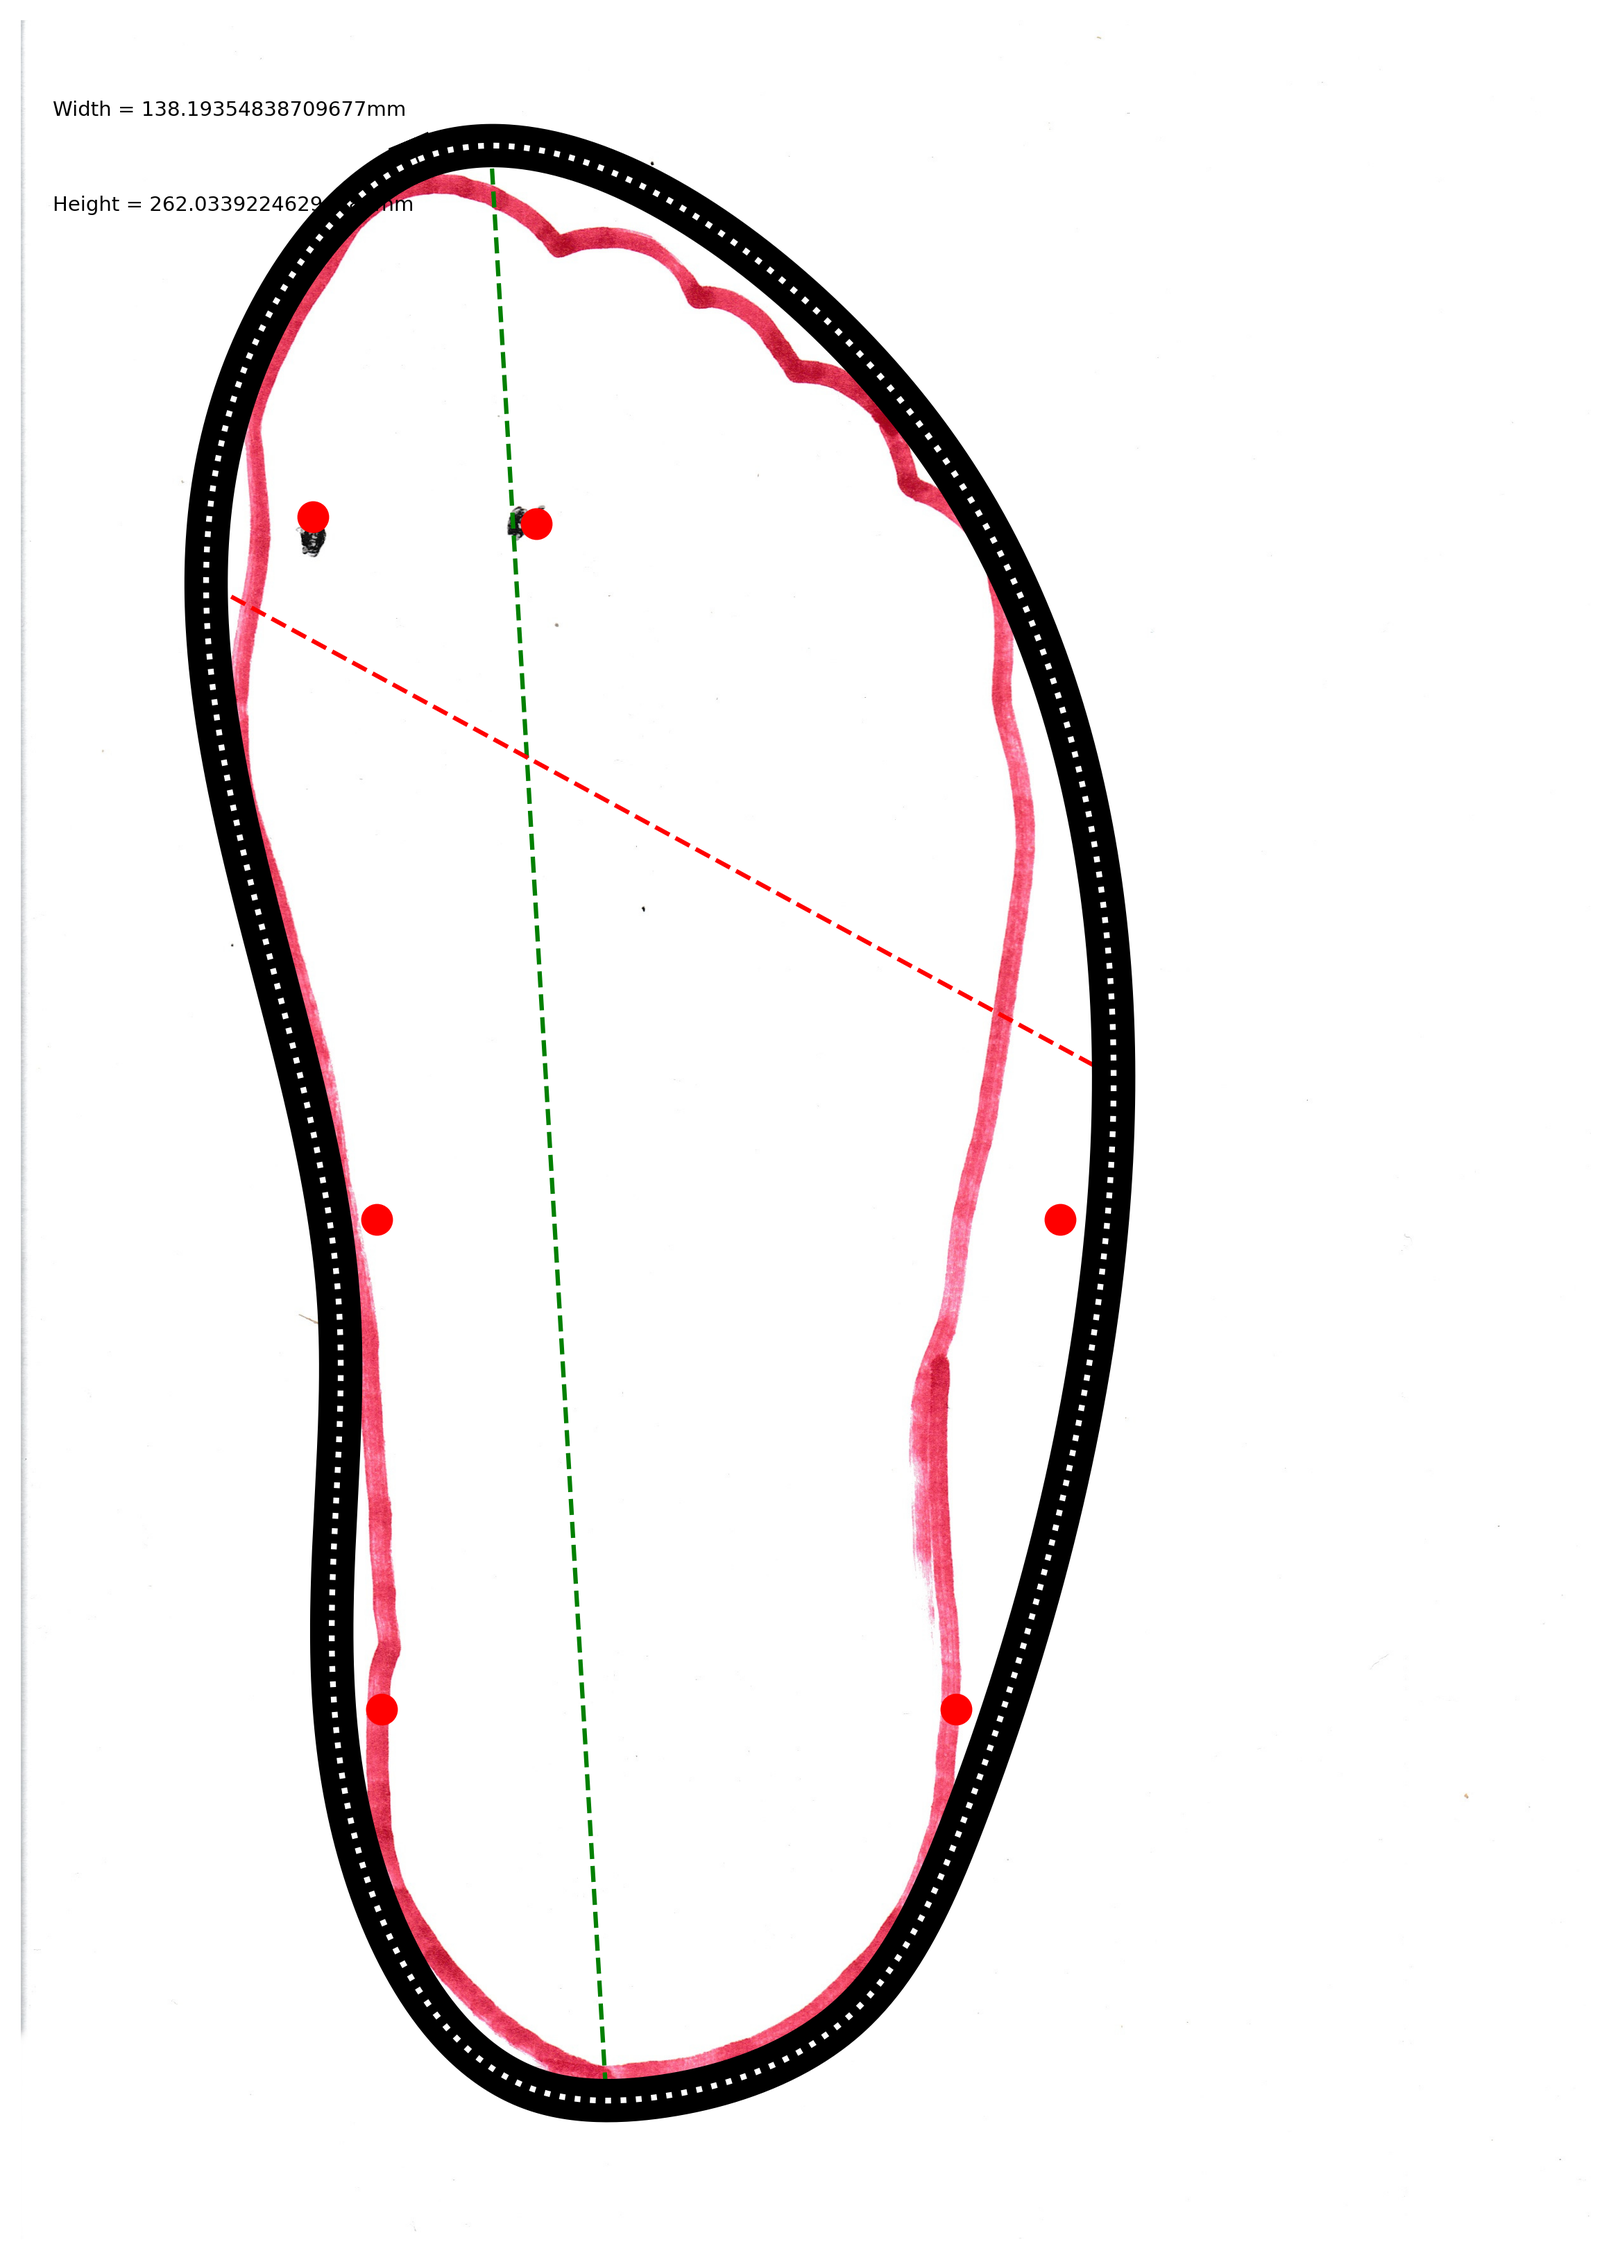
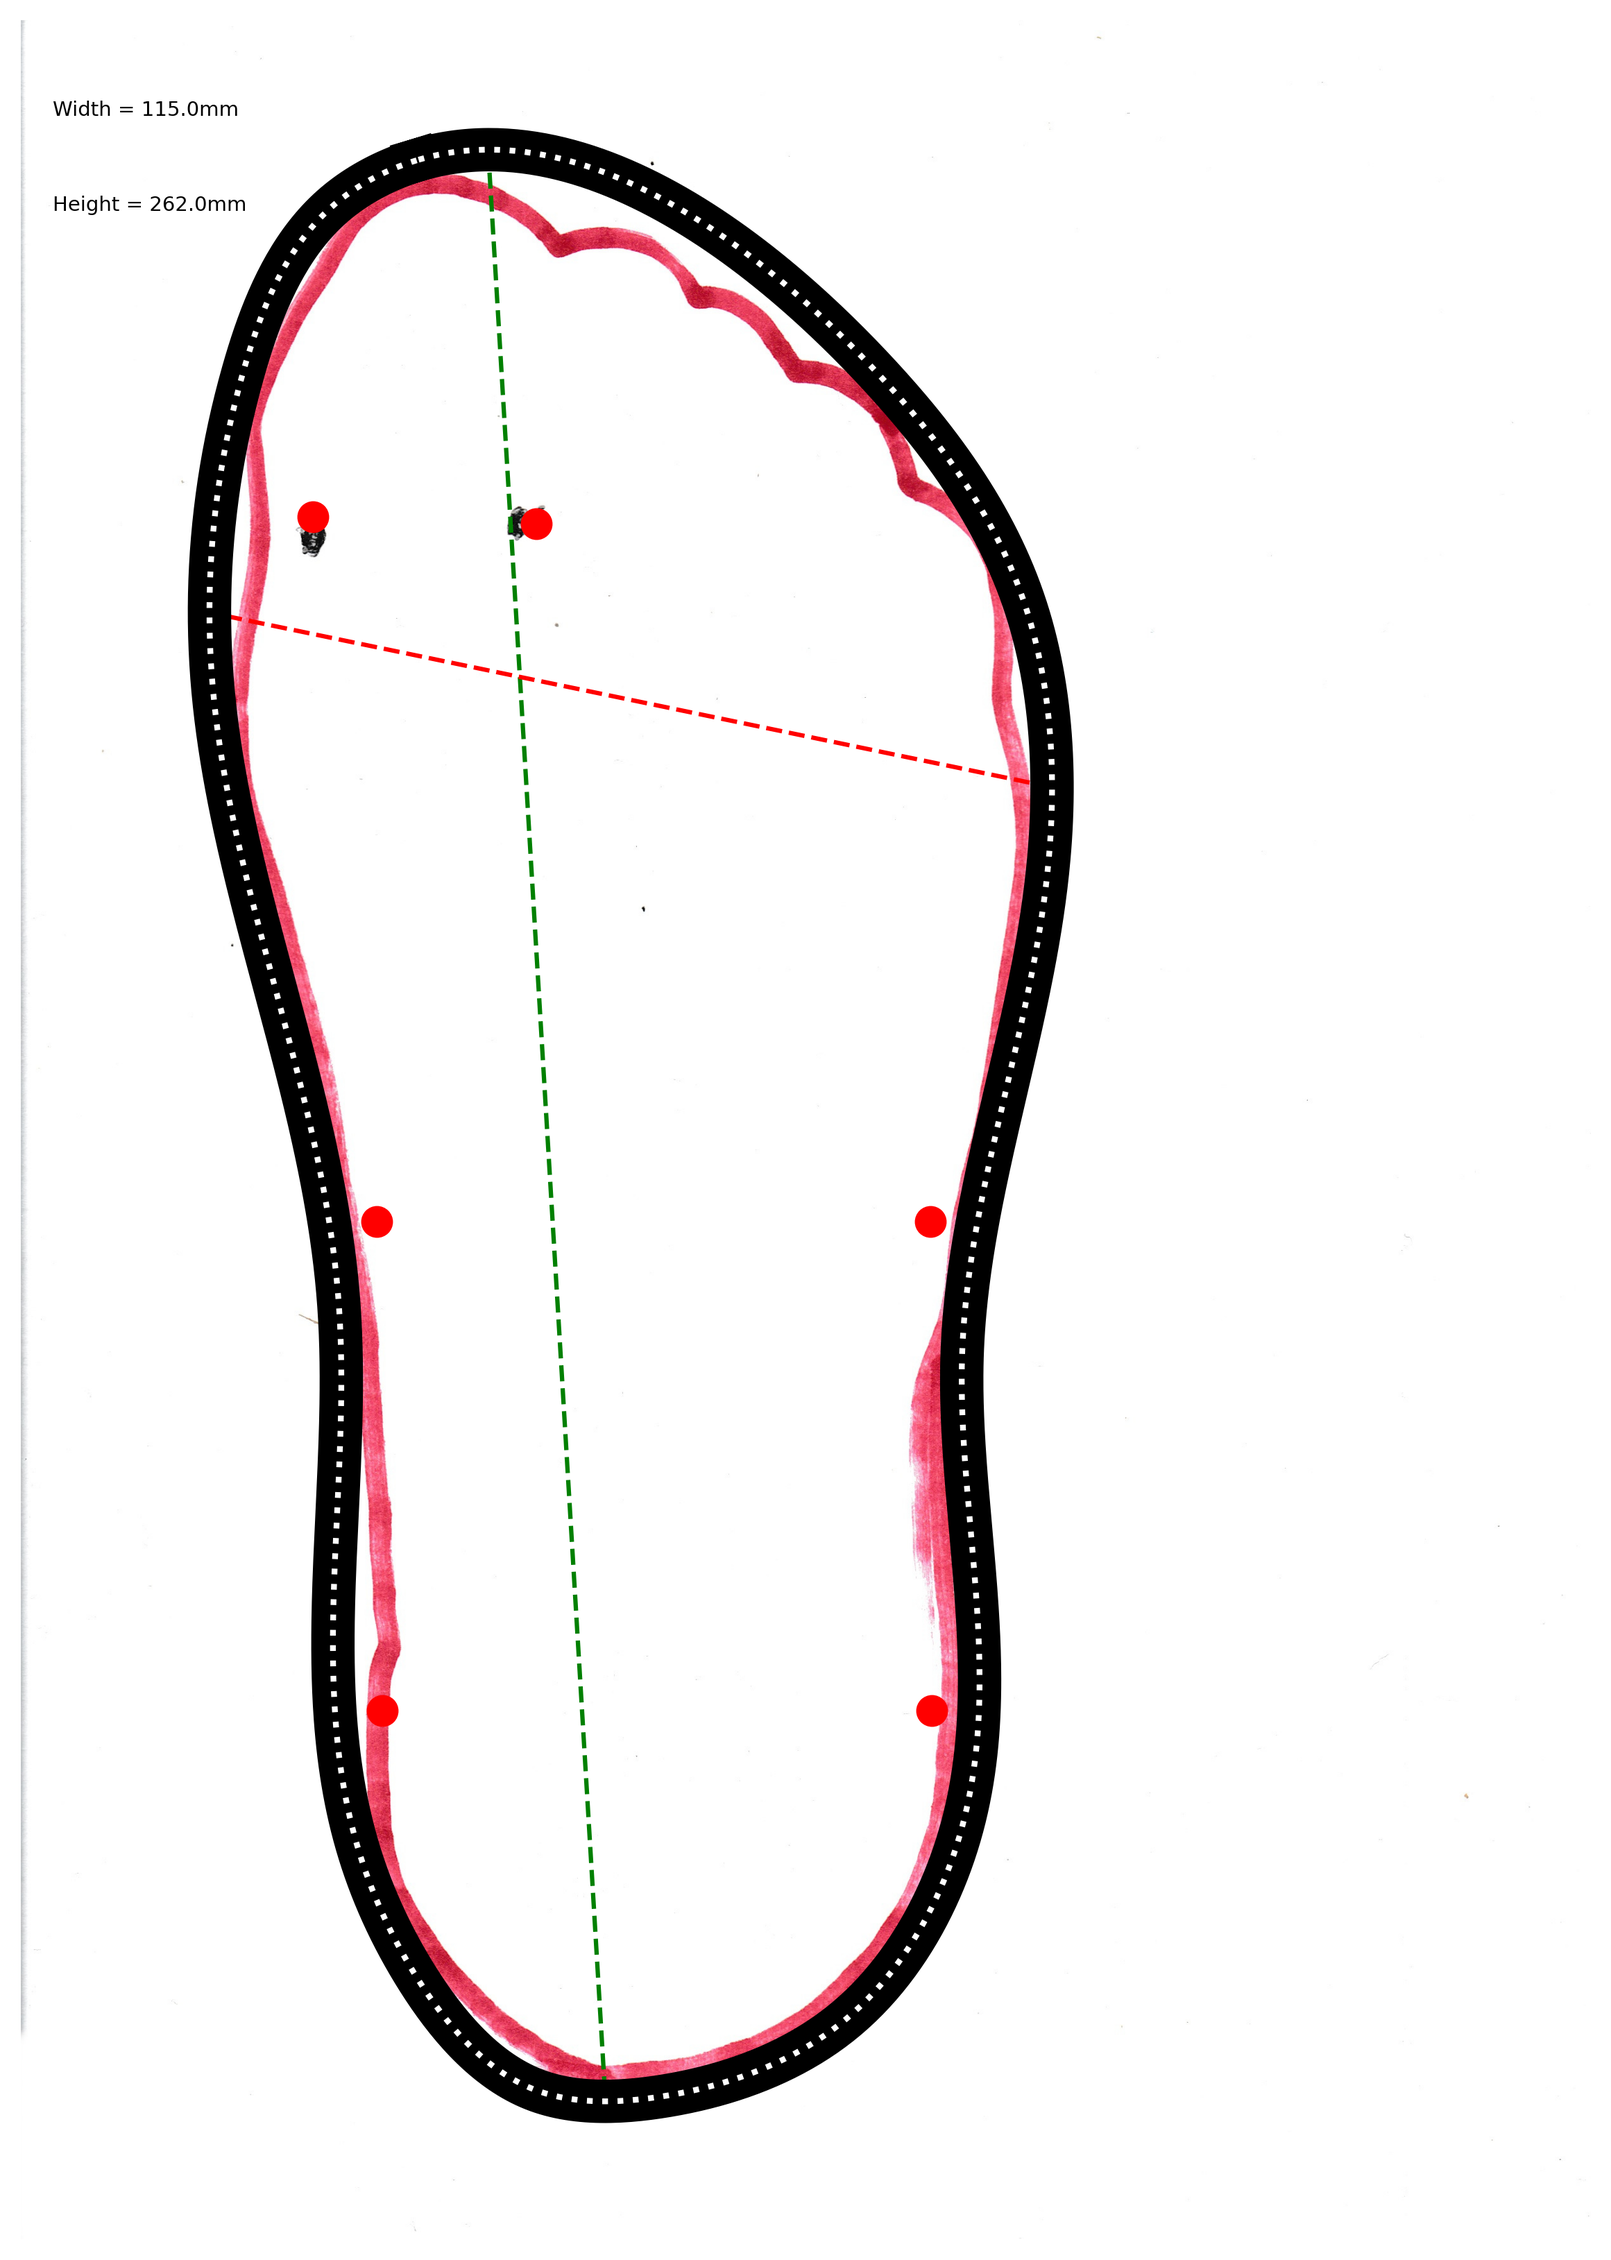
code is looking much better with cleanup, still needs stress testing

diff --git a/TemplateCreator.py b/TemplateCreator.py
@@ -77,13 +77,13 @@ def img2Outline(image):
 	ret, im = cv2.threshold(gray, 100, 255, cv2.THRESH_BINARY_INV)
 	contours, hierarchy  = cv2.findContours(im, cv2.RETR_EXTERNAL, cv2.CHAIN_APPROX_SIMPLE)
 
-	plt.subplot(121),plt.imshow(enhanced_image,cmap = 'gray')
-	plt.title('Original Image'), plt.xticks([]), plt.yticks([])
-	plt.subplot(122),plt.imshow(threshold_image,cmap = 'gray')
-	plt.title('Edge Image'), plt.xticks([]), plt.yticks([])
-	plt.show()
+	# plt.subplot(121),plt.imshow(enhanced_image,cmap = 'gray')
+	# plt.title('Original Image'), plt.xticks([]), plt.yticks([])
+	# plt.subplot(122),plt.imshow(threshold_image,cmap = 'gray')
+	# plt.title('Edge Image'), plt.xticks([]), plt.yticks([])
+	# plt.show()
 
-	epsilon = 0.008 * cv2.arcLength(contours[0], True)
+	epsilon = 0.005 * cv2.arcLength(contours[0], True)
 	poly_contour = cv2.approxPolyDP(contours[0], epsilon, True)
 
 	points = np.squeeze(poly_contour)
@@ -113,8 +113,8 @@ if __name__ == "__main__":
 	A4_x, A4_y = 2480, 3508
 	pix2mmX, pix2mmY= 210/A4_x, 297/A4_y
 
-	width = np.around(np.sqrt((EX - WX)**2 + (EY - WY)**2))
-	height = np.around(np.sqrt((NX - SX)**2 + (NY - SY)**2))
+	width = np.sqrt((EX - WX)**2 + (EY - WY)**2)
+	height = np.sqrt((NX - SX)**2 + (NY - SY)**2)
 
 	#Bottom holes
 	BottomY = SY - (height * 0.20)
@@ -141,8 +141,8 @@ if __name__ == "__main__":
 	##################### HEIGHT & WIDTH INFO #####################
 	ax.plot([NX, SX], [NY, SY], 'g--')
 	ax.plot([EX, WX], [EY, WY], 'r--')
-	ax.text(50, 150, f"Width = {width * pix2mmX}mm", fontsize=7)
-	ax.text(50, 300, f"Height = {height * pix2mmY}mm", fontsize=7)
+	ax.text(50, 150, f"Width = {np.around(width * pix2mmX)}mm", fontsize=7)
+	ax.text(50, 300, f"Height = {np.around(height * pix2mmY)}mm", fontsize=7)
 
 
 	##################### OUTLINE & STITCHLINE #####################
